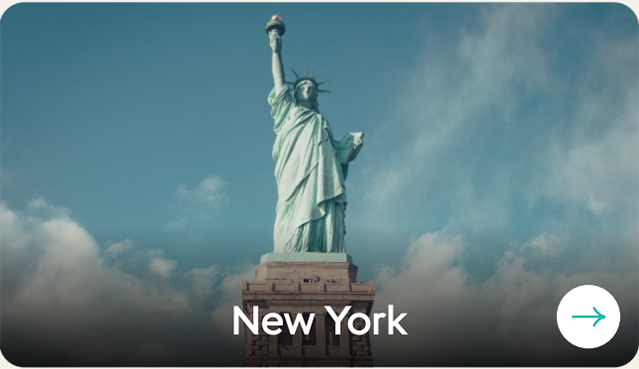
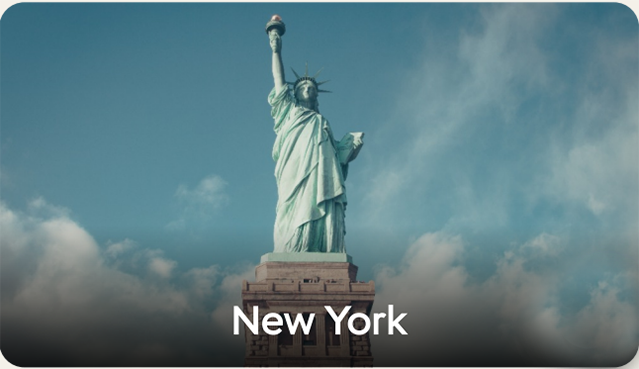
Almost final

Changed region(s): [[0.8326, 0.7453, 1.0, 1.0]]

diff --git a/src/components/CustomSection/CustomSection2.module.css b/src/components/CustomSection/CustomSection2.module.css
@@ -1,4 +1,48 @@
 @import '../../styles/customMediaQueries.css';
+.carousel__btn {
+  position: absolute;
+  cursor: pointer;
+  z-index: 1;
+  border-width: 0px;
+  border-radius: 50%;
+  padding: -5px;
+  background-color:transparent;
+  border-style: dashed;
+  border-color: rgb(11, 151, 144);
+  border-width: 2px;
+  bottom: 10px;
+  right: 10px;
+
+}
+
+.carousel__btn:hover {
+  
+  box-shadow: 2px 2px 10px 2px rgb(172, 172, 172);
+
+  background-color: rgba(255, 255, 255, 0.756);
+  transform: scale(1.1);
+  transition: .5s;
+  padding: -5px;
+  
+}
+
+
+.carousel__img {
+  width: 100%;
+  height: auto;
+  display: block;
+  transition: transform 0.3s ease-in-out;
+}
+
+.carousel__img:hover {
+  transform: scale(1.05);
+}
+
+.loca_bg{
+  position: absolute;
+}
+
+
 
 
 .flex_div{
@@ -98,8 +142,14 @@
     }
   }
   @media only screen and (max-width: 768px) {
+    .carousel__btn{
+      height: 50px;
+      width: 50px;
+    }
     .mobile{
-      display: block;
+      display: flex;
+      flex-direction: column;
+      justify-content: center;
       width: 100%;
       margin: 0px;
       padding: 0px;
@@ -108,11 +158,6 @@
 
     .mobile h1{
       font-size: 35px;
-    }
-
-    .mobile img{
-      margin: 10px 10%;
-      width: 80%;
     }
 
     .desktop{
@@ -125,19 +170,79 @@
   }
 
   .resize_image{
-    height: auto;
+   
+    height: 100%;
   }
 
   .mag_t_50{
     margin-top: 80px;
   }
+
+  
+
+.img_con{
+  position: relative;
+  float: left;
+  height: 300px;
+
+}
+.carousel__btn {
+  position: absolute;
+  cursor: pointer;
+  z-index: 1;
+  border-width: 0px;
+  border-radius: 50%;
+  padding: -5px;
+  background-color:transparent;
+  border-style: dashed;
+  border-color: rgb(11, 151, 144);
+  border-width: 2px;
+  bottom: 10px;
+  right: 10px;
+
+}
+
+.carousel__btn:hover {
+  
+  box-shadow: 2px 2px 10px 2px rgb(172, 172, 172);
+
+  background-color: rgba(255, 255, 255, 0.756);
+  transform: scale(1.1);
+  transition: .5s;
+  padding: -5px;
+  
+}
+
+.img_con {
+  position: relative;
+  float: left;
+  height: 300px;
+  display: flex;
+  margin-bottom: 20px;
+}
+.mobile {
+  display: flex;
+  flex-direction: column;
+  justify-content: center;
+  width: 100%;
+  margin: 0px;
+  margin-top: 0px;
+  padding: 50px;
+  text-align: center;
+}
+
 
   }
    
    @media only screen and (max-width: 412px) {
-    
+    .carousel__btn{
+      height: 100px;
+      width: 100px;
+    }
     .mobile{
-      display: block;
+      display: flex;
+      flex-direction: column;
+      justify-content: center;
       width: 100%;
       margin: 0px;
       padding: 0px;
@@ -148,10 +253,6 @@
       font-size: 35px;
     }
 
-    .mobile img{
-      margin: 10px 10%;
-      width: 80%;
-    }
 
     .desktop{
       display: none;
@@ -163,20 +264,62 @@
   }
 
   .resize_image{
-    height: auto;
+    
+    height: 100%;
   }
 
   .mag_t_50{
     margin-top: 80px;
   }
 
+  .img_con {
+    position: relative;
+    float: left;
+    height: 300px;
+    display: flex;
+    margin-bottom: 20px;
+  }
+
+  .carousel__btn {
+    position: absolute;
+    cursor: pointer;
+    z-index: 1;
+    border-width: 0px;
+    border-radius: 50%;
+    padding: -5px;
+    background-color:transparent;
+    border-style: dashed;
+    border-color: rgb(11, 151, 144);
+    border-width: 2px;
+    bottom: 10px;
+    right: 10px;
+  
+  }
+  
+  .carousel__btn:hover {
+    
+    box-shadow: 2px 2px 10px 2px rgb(172, 172, 172);
+  
+    background-color: rgba(255, 255, 255, 0.756);
+    transform: scale(1.1);
+    transition: .5s;
+    padding: -5px;
+    
+  }
    
    }
    
    
    @media only screen and (max-width: 360px) {
+
+    .carousel__btn{
+      height: 100px;
+      width: 100px;
+    }
     .mobile{
-      display: block;
+      display: flex;
+      flex-direction: column;
+      justify-content: center;
       width: 100%;
       margin: 0px;
       padding: 0px;
@@ -185,11 +328,6 @@
 
     .mobile h1{
       font-size: 35px;
-    }
-
-    .mobile img{
-      margin: 10px 10%;
-      width: 80%;
     }
 
     .desktop{
@@ -202,12 +340,48 @@
   }
 
   .resize_image{
-    height: auto;
+   
+    height: 100%;
   }
 
   .mag_t_50{
     margin-top: 80px;
   }
 
+
+  .img_con {
+    position: relative;
+    float: left;
+    height: 300px;
+    display: flex;
+    margin-bottom: 20px;
+  }
+
+  .carousel__btn {
+    position: absolute;
+    cursor: pointer;
+    z-index: 1;
+    border-width: 0px;
+    border-radius: 50%;
+    padding: -5px;
+    background-color:transparent;
+    border-style: dashed;
+    border-color: rgb(11, 151, 144);
+    border-width: 2px;
+    bottom: 10px;
+    right: 10px;
+  
+  }
+  
+  .carousel__btn:hover {
+    
+    box-shadow: 2px 2px 10px 2px rgb(172, 172, 172);
+  
+    background-color: rgba(255, 255, 255, 0.756);
+    transform: scale(1.1);
+    transition: .5s;
+    padding: -5px;
+    
+  }
    
    }

diff --git a/src/components/CustomSection/CustomSection2.js b/src/components/CustomSection/CustomSection2.js
@@ -11,6 +11,7 @@ import slidder from '../../assets/slidder.PNG';
 import { FontAwesomeIcon } from '@fortawesome/react-fontawesome'
 import { faMessage, faHeart, faSignIn, faEnvelope} from '@fortawesome/free-solid-svg-icons'
 import classNames from 'classnames';
+import right_arrow from '../../assets/right_arrow_trans.png';
 
 
 const CustomSectionComponent2 = props =>{
@@ -34,18 +35,36 @@ const CustomSectionComponent2 = props =>{
         </div>
 
         <div>
-          <div className={css.col45}><img className={css.resize_image} src={img3}/></div>
-          <div className={css.col20}><img className={css.resize_image} src={img4}/></div>
-          <div className={css.col35}><img className={css.resize_image} src={img5}/></div>
+          <div className={css.col45}>
+            <img className={classNames(css.loca_bg,css.resize_image)} src={img3}/>
+            <img className={classNames(css.carousel__btn,css.carousel__btn__prev)} src={right_arrow}/>
+          </div>
+          <div className={css.col20}>
+            <img className={classNames(css.loca_bg,css.resize_image)} src={img4}/>
+            <img className={classNames(css.carousel__btn,css.carousel__btn__prev)} src={right_arrow}/>
+          </div>
+          <div className={css.col35}>
+            <img className={classNames(css.loca_bg,css.resize_image)} src={img5}/>
+            <img className={classNames(css.carousel__btn,css.carousel__btn__prev)} src={right_arrow}/>
+          </div>
         </div>
 
       </div>
 
       <div className={classNames(css.container, css.desktop)}>
         <div>
-          <div className={css.col20}><img className={css.resize_image} src={img6}/></div>
-          <div className={css.col35}><img className={css.resize_image} src={img7}/></div>
-          <div className={css.col45}><img className={css.resize_image} src={img8}/></div>
+          <div className={css.col20}>
+            <img className={classNames(css.loca_bg,css.resize_image)} src={img6}/>
+            <img className={classNames(css.carousel__btn,css.carousel__btn__prev)} src={right_arrow}/>
+          </div>
+          <div className={css.col35}>
+            <img className={classNames(css.loca_bg,css.resize_image)} src={img7}/>
+            <img className={classNames(css.carousel__btn,css.carousel__btn__prev)} src={right_arrow}/>
+          </div>
+          <div className={css.col45}>
+            <img className={classNames(css.loca_bg,css.resize_image)} src={img8}/>
+            <img className={classNames(css.carousel__btn,css.carousel__btn__prev)} src={right_arrow}/>
+          </div>
         </div>
 
       </div>
@@ -55,12 +74,33 @@ const CustomSectionComponent2 = props =>{
                 Locations?
             </h1>
             <img className={css.h_20}  src={slidder}/>
-            <img className={css.resize_image} src={img3}/>
-            <img className={css.resize_image} src={img4}/>
-            <img className={css.resize_image} src={img5}/>
-           <img className={css.resize_image} src={img4}/>
-            <img className={css.resize_image} src={img5}/>
-            <img className={css.resize_image} src={img3}/>
+          <div className={classNames(css.img_con)}>
+            <img className={classNames(css.loca_bg,css.resize_image)} src={img3}/>
+            <img className={classNames(css.carousel__btn,css.carousel__btn__prev)} src={right_arrow}/>
+          </div>
+          <div className={classNames(css.img_con)}>
+            <img className={classNames(css.loca_bg,css.resize_image)} src={img4}/>
+            <img className={classNames(css.carousel__btn,css.carousel__btn__prev)} src={right_arrow}/>
+          </div>
+          <div className={classNames(css.img_con)}>
+            <img className={classNames(css.loca_bg,css.resize_image)} src={img5}/>
+            <img className={classNames(css.carousel__btn,css.carousel__btn__prev)} src={right_arrow}/>
+          </div>
+
+          <div className={classNames(css.img_con)}>
+            <img className={classNames(css.loca_bg,css.resize_image)} src={img6}/>
+            <img className={classNames(css.carousel__btn,css.carousel__btn__prev)} src={right_arrow}/>
+          </div>
+          <div className={classNames(css.img_con)}>
+            <img className={classNames(css.loca_bg,css.resize_image)} src={img7}/>
+            <img className={classNames(css.carousel__btn,css.carousel__btn__prev)} src={right_arrow}/>
+          </div>
+          <div className={classNames(css.img_con)}>
+            <img className={classNames(css.loca_bg,css.resize_image)} src={img8}/>
+            <img className={classNames(css.carousel__btn,css.carousel__btn__prev)} src={right_arrow}/>
+          </div>
+
+
       </div>
 
 
